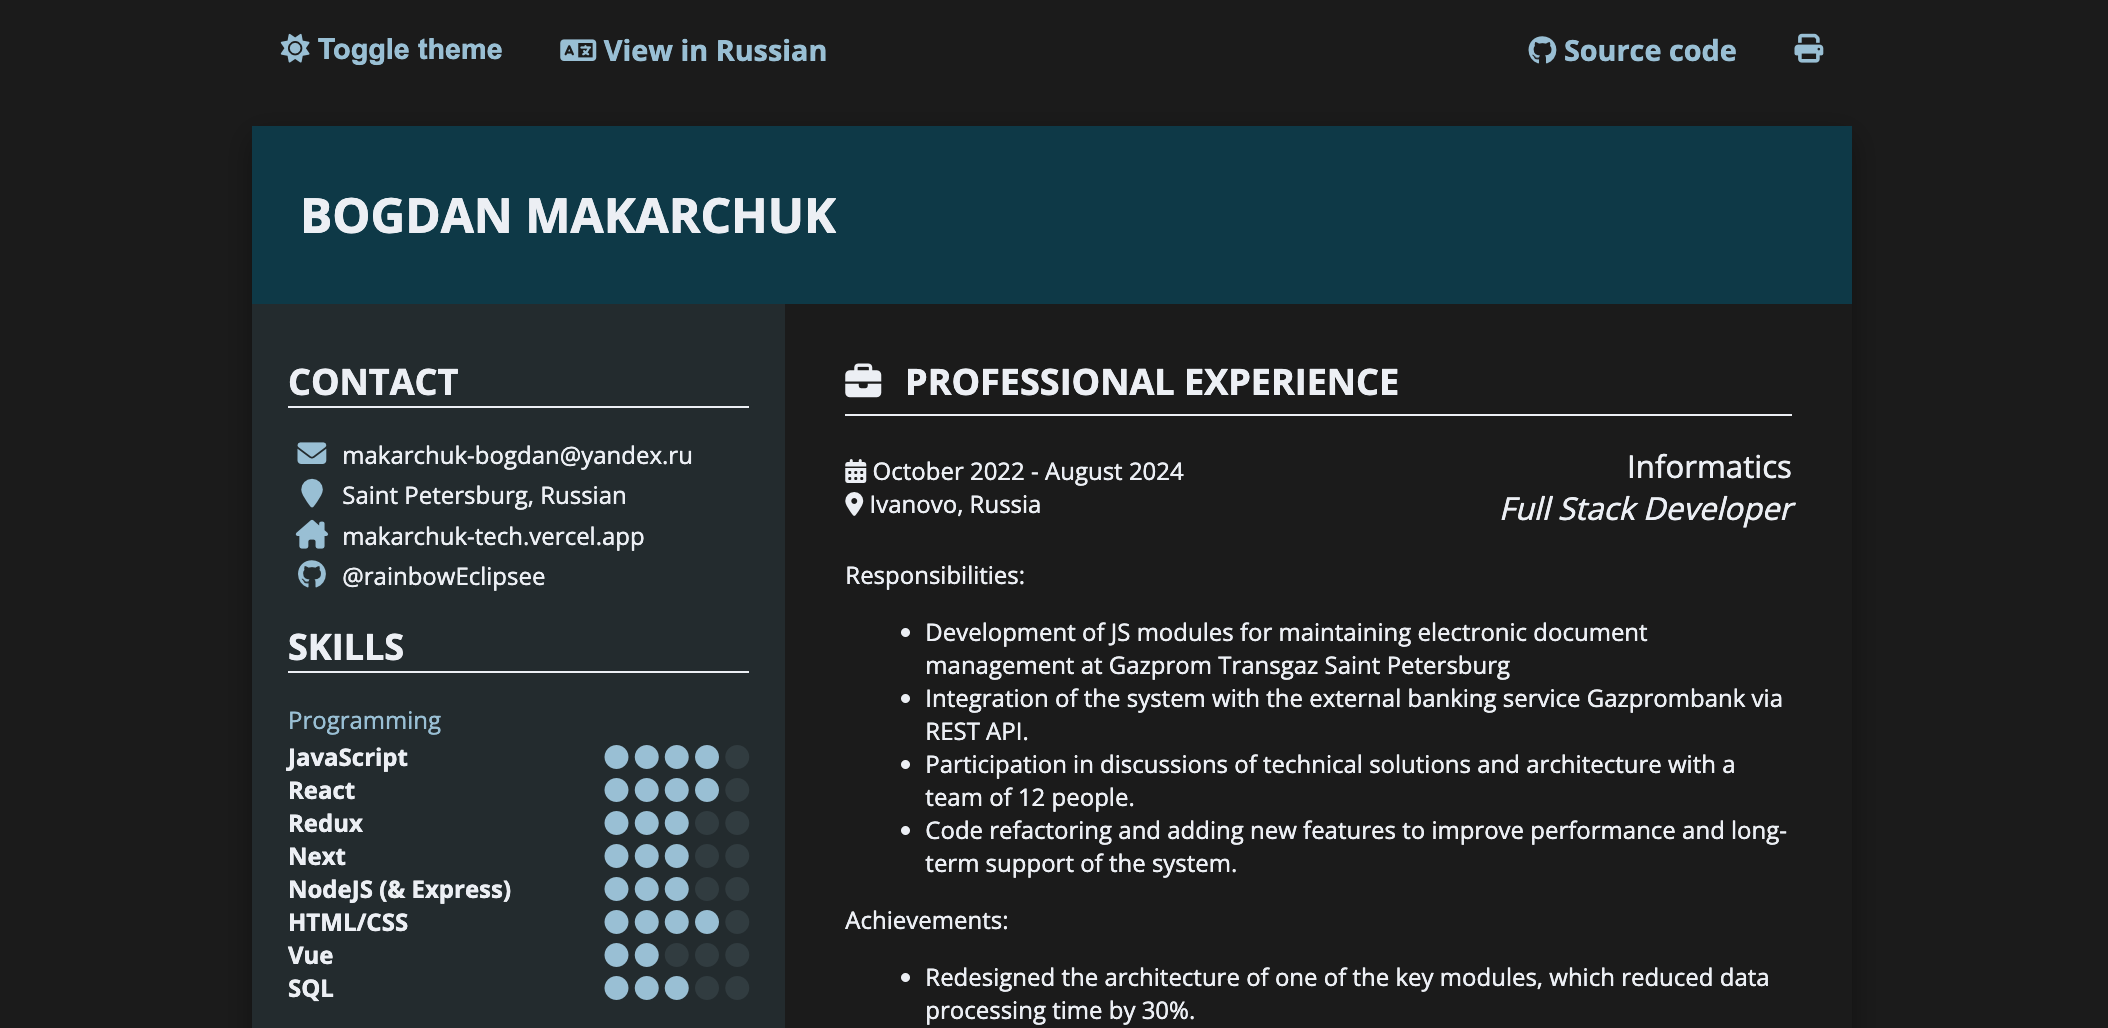
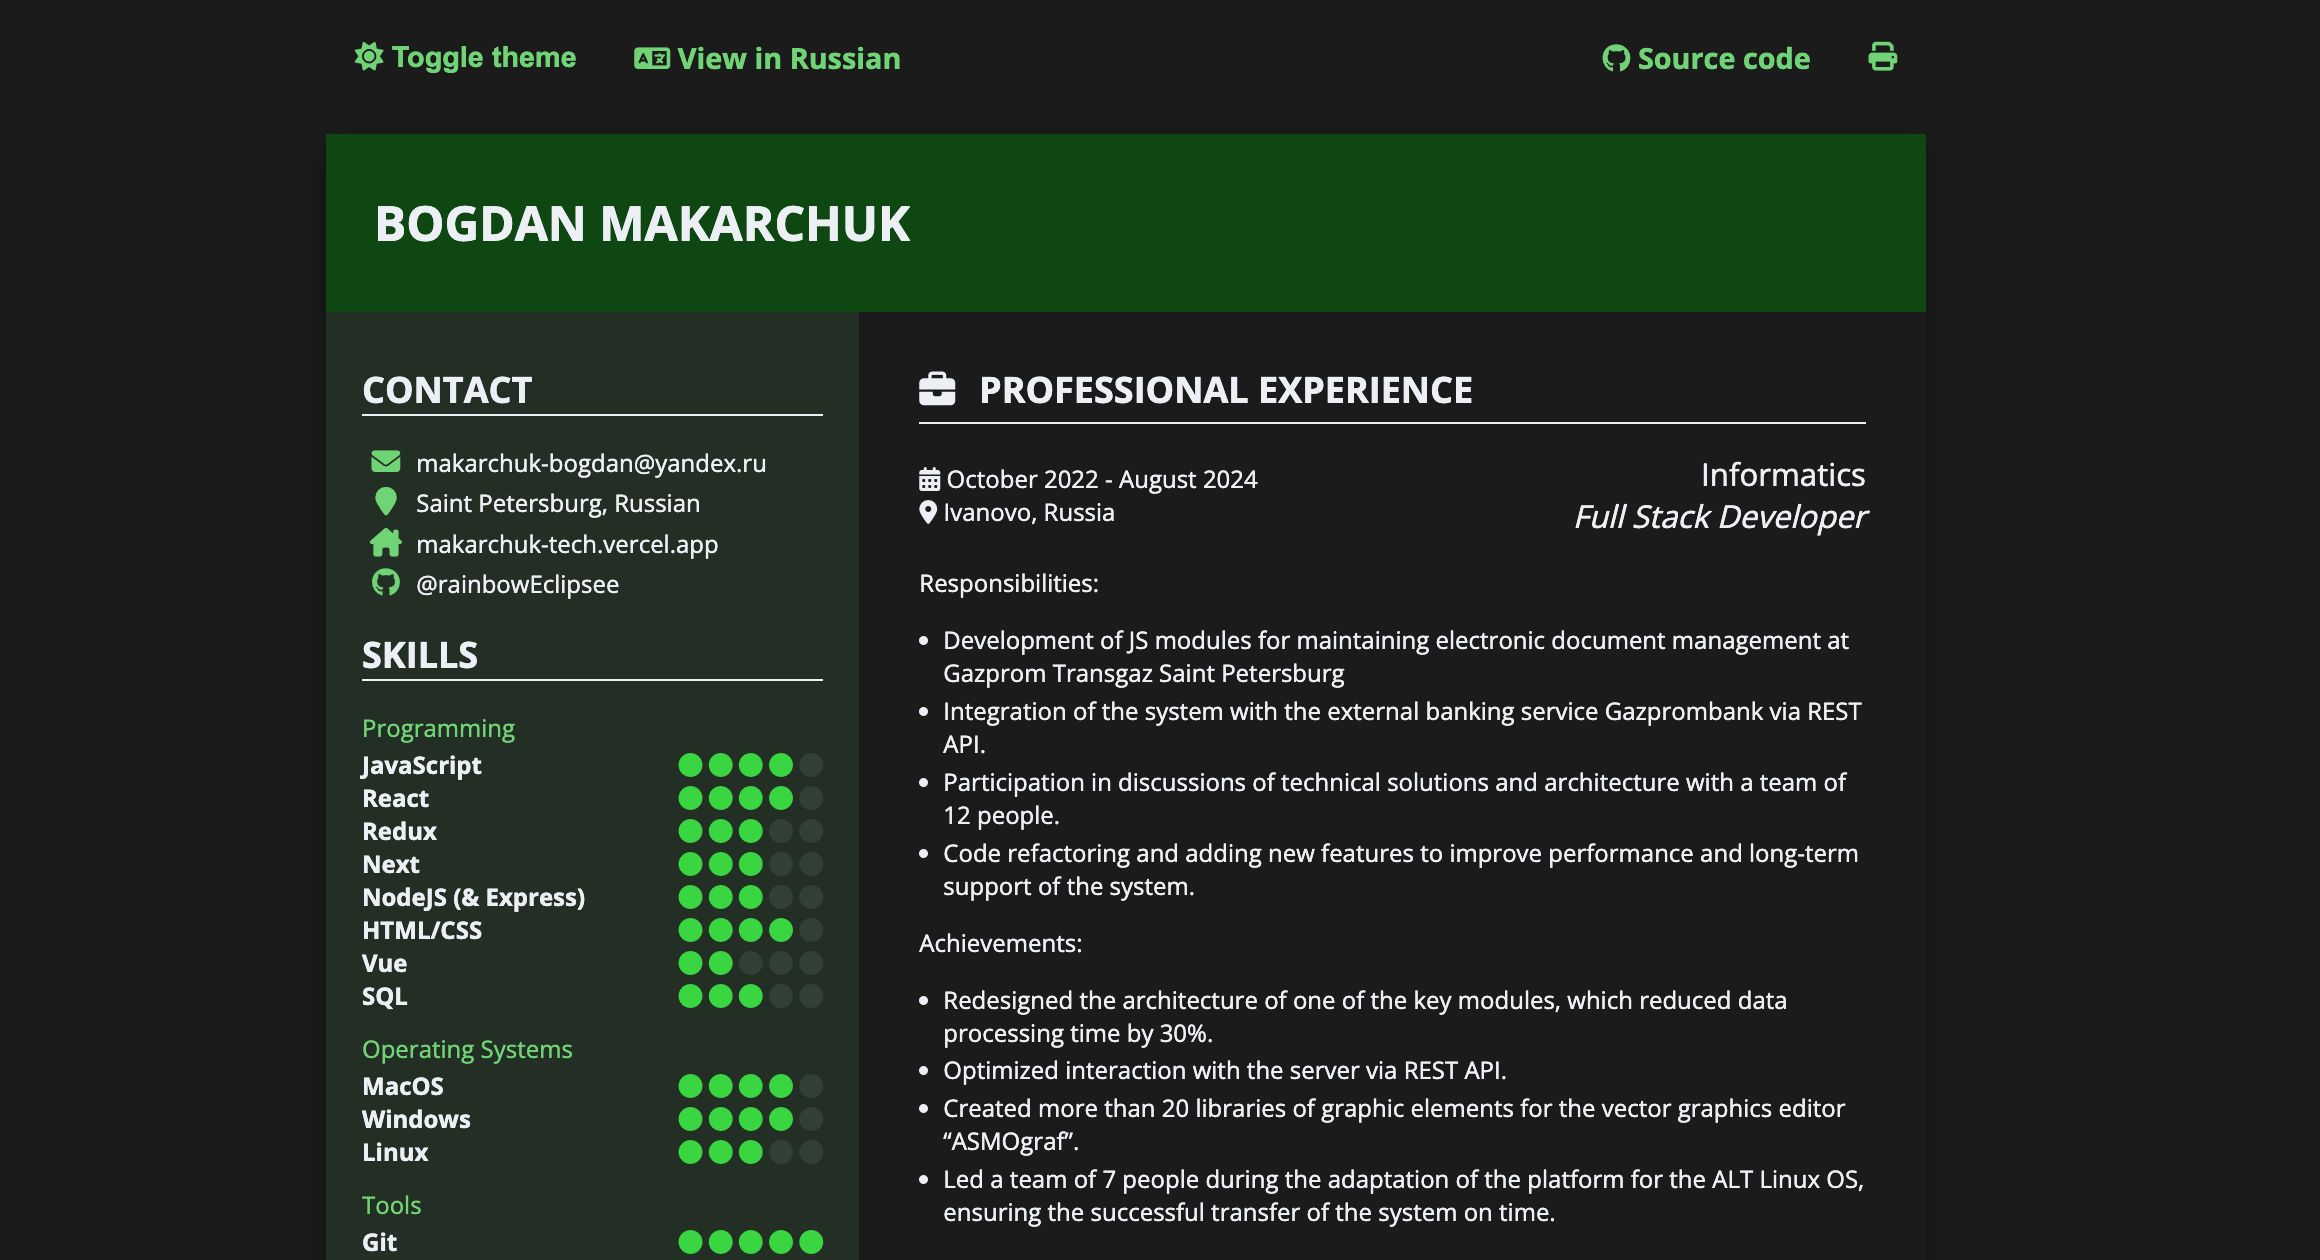
upd - styles for Professional block

diff --git a/assets/main.scss b/assets/main.scss
@@ -76,6 +76,17 @@ body {
   margin-bottom: 4em;
 }
 
+ul {
+  list-style-type: disc;   
+  margin-left: 1em;
+  padding-left: 0;
+}
+
+li {
+  position: relative;
+  margin-bottom: 0.2em;
+}
+
 .cv {
   background-color: var(--bodyBgColor);
   color: var(--bodyTextColor);
